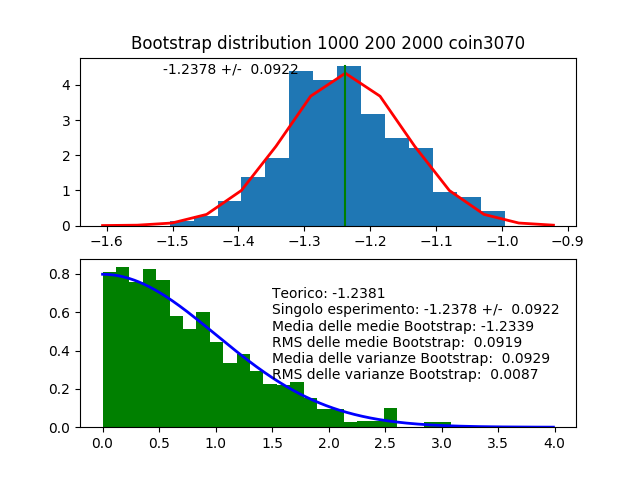
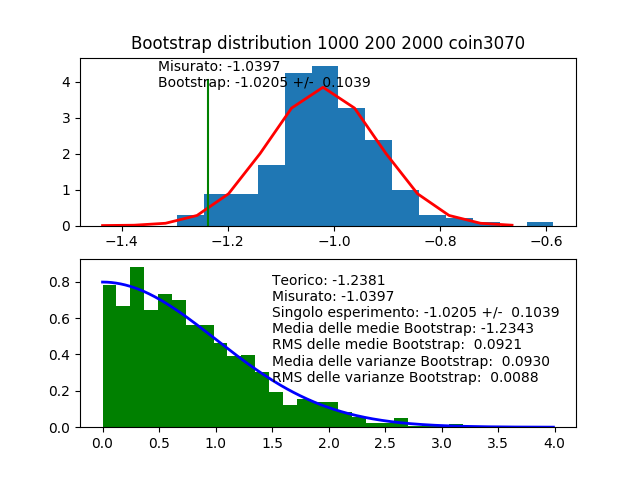
prove_nicolo

diff --git a/prove_nicolo/kurt.py b/prove_nicolo/kurt.py
@@ -87,6 +87,7 @@ def bootstrap_jacknife(T,Nboot_,datapoints_,distr_,want_vector):
     #print(VV)
     v=[]
     
+    
     if (Nboot==0):
         v.append((moment(VV,4)/moment(VV,2)**2)-3)
         
@@ -109,21 +110,21 @@ def bootstrap_jacknife(T,Nboot_,datapoints_,distr_,want_vector):
         v.append(curt)
 
     if (want_vector):
-        return v, np.mean(v), np.std(v)*corr_fac
+        return v, ((moment(VV,4)/moment(VV,2)**2)-3), np.mean(v), np.std(v)*corr_fac
     else:
         return np.mean(v), np.std(v)*corr_fac
 
 
     
    
-
+measured=-999.
 for j in range(NN):
     print("----->j=",j)
 
     
     #### plotting gaussian only if j=0 & Nboot>0
     if (j==0 and Nboot>0):
-        v,x,s=bootstrap_jacknife(method,Nboot,datapoints,distr,True)
+        v,measured,x,s=bootstrap_jacknife(method,Nboot,datapoints,distr,True)
         s=s/corr_fac
         nbin=int(np.sqrt(Nboot))
         if (NN>9):
@@ -137,7 +138,7 @@ for j in range(NN):
         plt.plot(bins,1/(s*np.sqrt(2*np.pi))*np.exp(-(bins-x)**2/(2*s**2)),linewidth=2,color='r')
         fx, fy = [teo,teo], [0,1.05/(s*np.sqrt(2*np.pi))]
         plt.plot(fx,fy,color='g')
-        textt='%7.4f'%(x)+' +/- '+'%7.4f'%(s*corr_fac) 
+        textt='Misurato: %7.4f \n%s: %7.4f +/- %7.4f'%(measured,TT,x,s*corr_fac) 
         plt.text(x-3.*s,1./(s*np.sqrt(2*np.pi)),textt)
         s=s*corr_fac
     else:
@@ -162,11 +163,11 @@ if (NN>9):
     if (Nboot>0):
         plt.subplot(2,1,2)
     #plt.text(1.5,0.7,'Quantiles vs Standard \n Gaussian')
-    summary='Teorico: %7.4f \nSingolo esperimento: %7.4f +/- %7.4f \nMedia delle medie %s: %7.4f \nRMS delle medie %s: %7.4f \nMedia delle varianze %s: %7.4f \nRMS delle varianze %s: %7.4f'%(teo,X[0],S[0],TT,np.mean(X),TT,np.std(X),TT,np.mean(S),TT,np.std(S))
+    summary='Teorico: %7.4f \nMisurato: %7.4f \nSingolo esperimento: %7.4f +/- %7.4f \nMedia delle medie %s: %7.4f \nRMS delle medie %s: %7.4f \nMedia delle varianze %s: %7.4f \nRMS delle varianze %s: %7.4f'%(teo,measured,X[0],S[0],TT,np.mean(X),TT,np.std(X),TT,np.mean(S),TT,np.std(S))
     if (Nboot>0):
         plt.text(1.5,0.25,summary)
     else:
-        summary=summary+'\n(IGNORA SINGOLO ESPERIMENTO)'
+        summary=summary+'\n(Ignora \"MISURATO\" e \"SINGOLO ESP.\")'
         plt.text(teo,1,summary)
     plt.hist(quantile,int(np.sqrt(NN)),normed=True,color='g')
     xq=[k/100. for k in range(400)]
